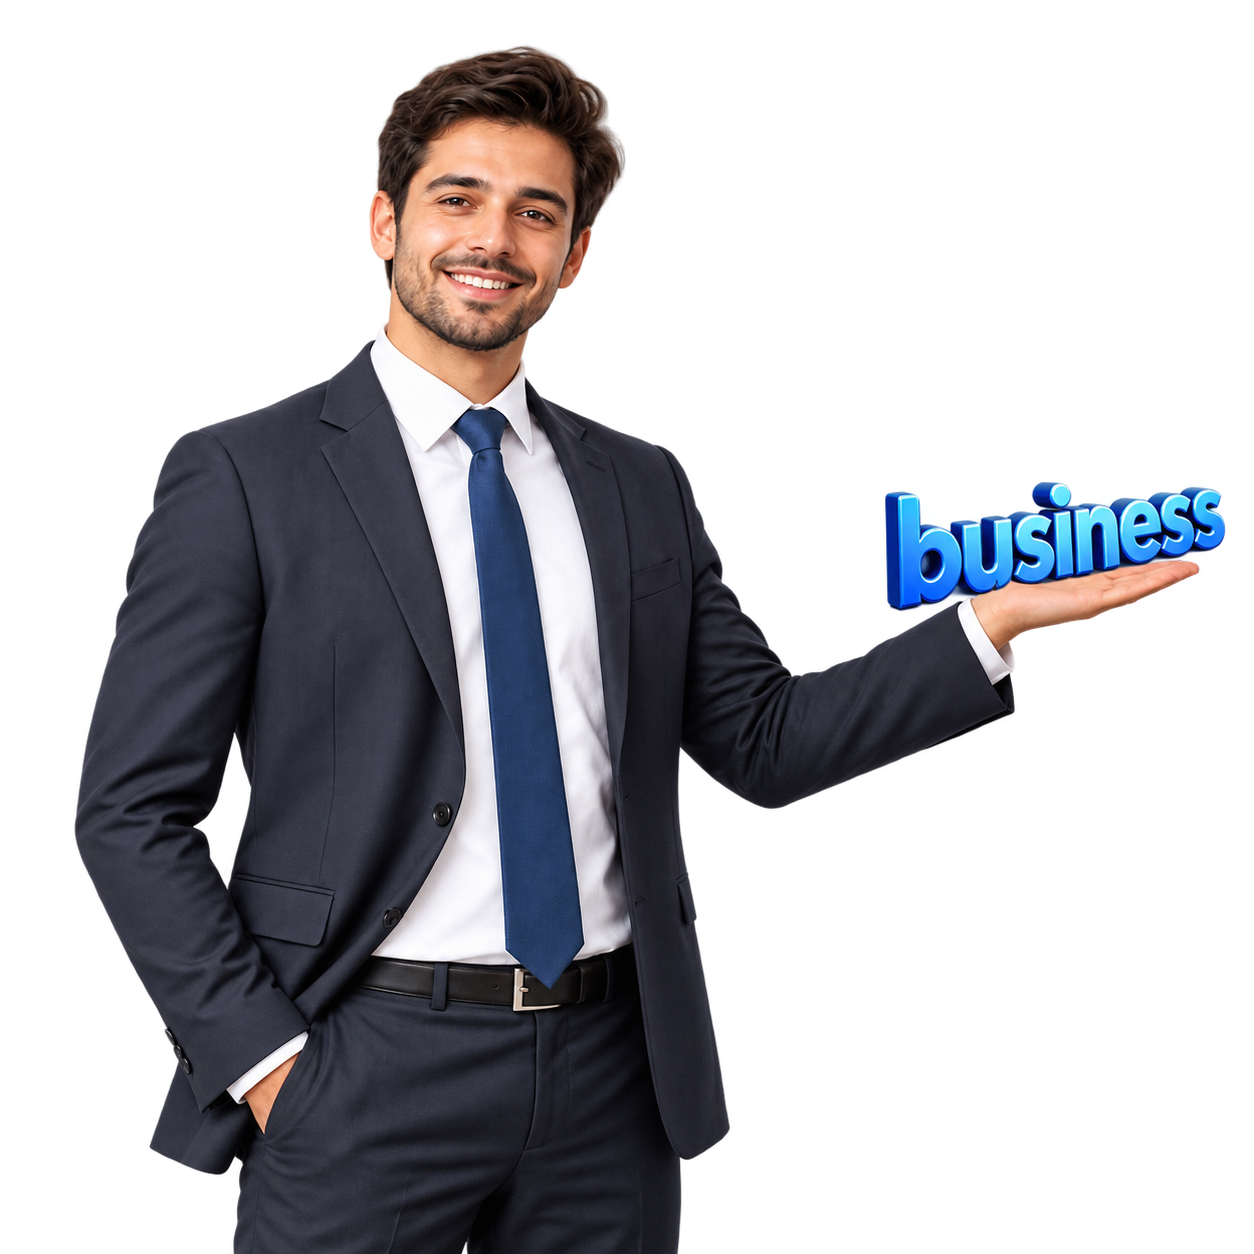
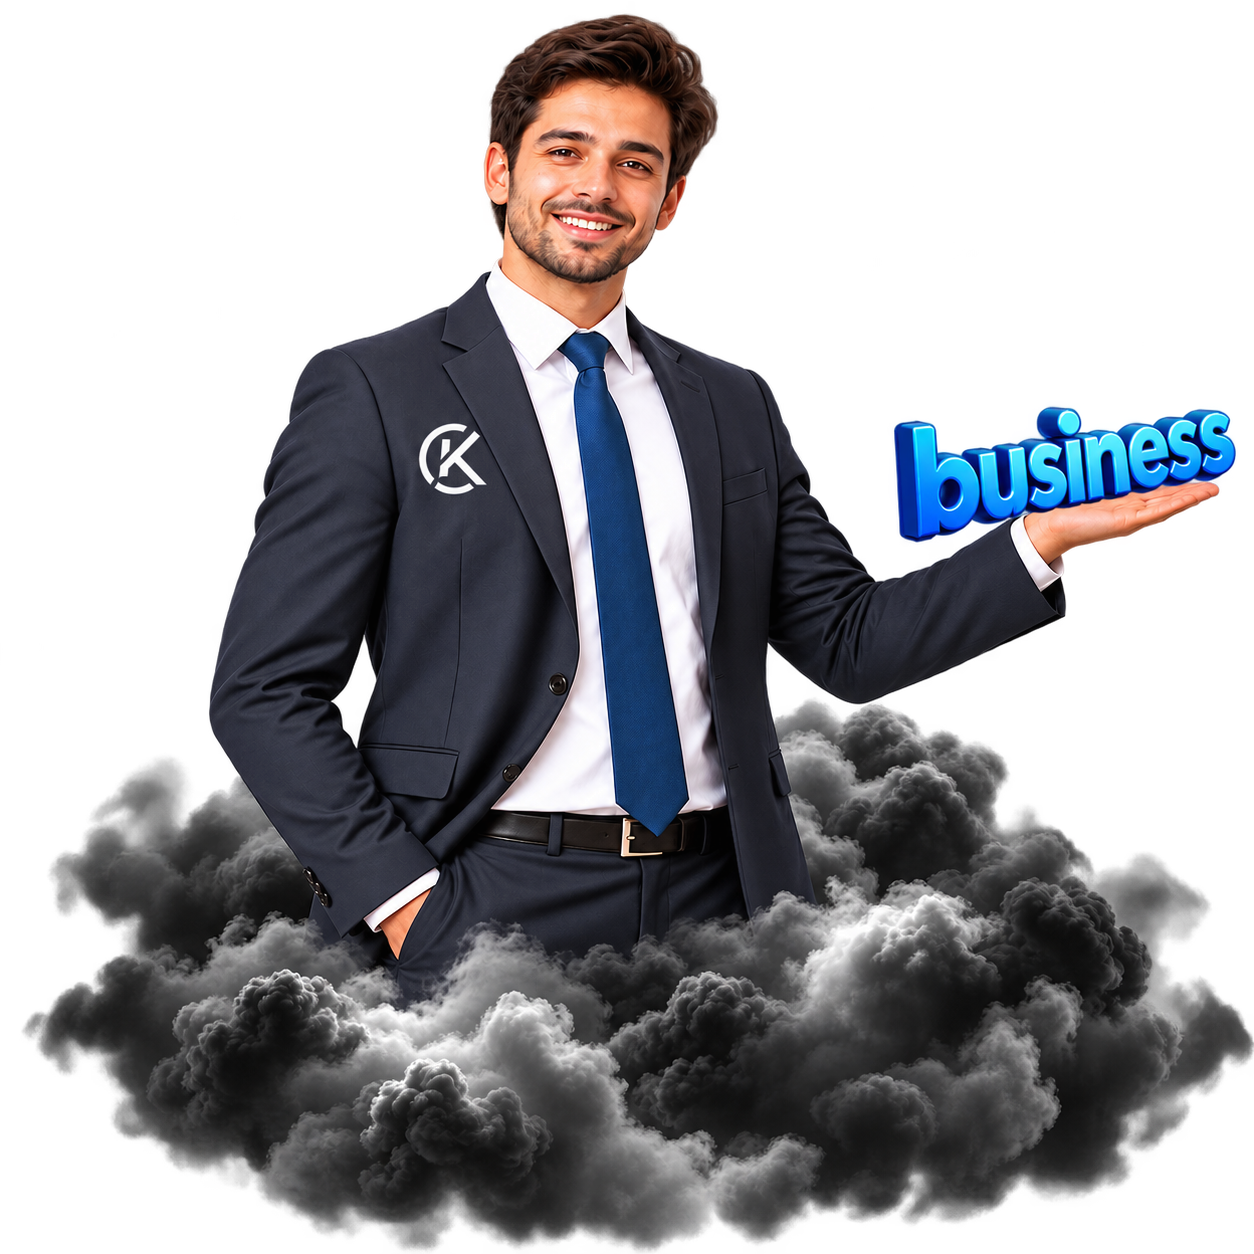
Enlarge businessman and student images 4x and position at top-right and bottom-left of Earth globe

diff --git a/frontend/src/components/sections/Hero.jsx b/frontend/src/components/sections/Hero.jsx
@@ -119,52 +119,31 @@ export default function Hero() {
               </Link>
             </div>
 
-            {/* Bottom Row: Proud to Support & Interactive Portals */}
-            <div className="hero-bottom-row">
-              {/* Proud to Support Section */}
-              <div className="hero-proud-support">
-                <span className="hero-proud-title">Proud to Support</span>
-                <div className="hero-proud-logos">
-                  <div className="hero-proud-logo-item">
-                    <img
-                      src="/logos/ministry-of-labour-and-employment-logo.webp"
-                      alt="Ministry of Labour & Employment"
-                      title="Ministry of Labour & Employment"
-                    />
-                  </div>
-                  <div className="hero-proud-logo-item">
-                    <img
-                      src="/logos/imgi_89_image.webp"
-                      alt="AICTE"
-                      title="AICTE"
-                    />
-                  </div>
-                  <div className="hero-proud-logo-item">
-                    <img
-                      src="/logos/DPIIT-header-new.webp"
-                      alt="DPIIT #startupindia"
-                      title="DPIIT #startupindia"
-                    />
-                  </div>
+            {/* Proud to Support Section */}
+            <div className="hero-proud-support">
+              <span className="hero-proud-title">Proud to Support</span>
+              <div className="hero-proud-logos">
+                <div className="hero-proud-logo-item">
+                  <img
+                    src="/logos/ministry-of-labour-and-employment-logo.webp"
+                    alt="Ministry of Labour & Employment"
+                    title="Ministry of Labour & Employment"
+                  />
                 </div>
-              </div>
-
-              {/* Businessman & Student Interactive Images */}
-              <div className="hero-interactive-portals">
-                <Link to="/digital-marketing" className="hero-portal-link" title="Digital Marketing">
+                <div className="hero-proud-logo-item">
                   <img
-                    src="/businessMan.png"
-                    alt="Digital Marketing Solutions"
-                    className="hero-portal-img"
+                    src="/logos/imgi_89_image.webp"
+                    alt="AICTE"
+                    title="AICTE"
                   />
-                </Link>
-                <Link to="/careers" className="hero-portal-link" title="Careers & Training">
+                </div>
+                <div className="hero-proud-logo-item">
                   <img
-                    src="/Cheerful Student.png"
-                    alt="Student Careers"
-                    className="hero-portal-img"
+                    src="/logos/DPIIT-header-new.webp"
+                    alt="DPIIT #startupindia"
+                    title="DPIIT #startupindia"
                   />
-                </Link>
+                </div>
               </div>
             </div>
           </div>

diff --git a/frontend/src/styles/hero.css b/frontend/src/styles/hero.css
@@ -383,26 +383,38 @@
   filter: brightness(0) invert(1) opacity(1);
 }
 
-/* INTERACTIVE PORTAL IMAGES (No borders, pure images) */
-.hero-interactive-portals {
-  display: flex;
-  align-items: flex-end;
-  gap: clamp(12px, 1.8vw, 22px);
-}
-
-.hero-portal-link {
+/* FLOATING GLOBE INTERACTIVE PORTALS (4x Enlarge Size, Top-Right & Bottom-Left of Earth) */
+.globe-floating-portal {
+  position: absolute;
+  z-index: 10;
   display: inline-block;
   text-decoration: none;
   background: transparent !important;
   border: none !important;
   outline: none !important;
+  box-shadow: none !important;
   padding: 0 !important;
   margin: 0 !important;
+  transition: transform 0.3s cubic-bezier(0.16, 1, 0.3, 1), filter 0.3s ease;
+  pointer-events: auto;
 }
 
-.hero-portal-img {
-  height: clamp(90px, 13vh, 135px);
+/* Top Right of Globe: Businessman -> /digital-marketing */
+.globe-floating-portal.portal-top-right {
+  top: -12%;
+  right: -16%;
+}
+
+/* Bottom Left of Globe: Cheerful Student -> /careers */
+.globe-floating-portal.portal-bottom-left {
+  bottom: -12%;
+  left: -18%;
+}
+
+.globe-portal-img {
+  height: clamp(260px, 32vw, 420px);
   width: auto;
+  max-width: 480px;
   object-fit: contain;
   display: block;
   border: none !important;
@@ -410,11 +422,26 @@
   box-shadow: none !important;
   background: transparent !important;
   border-radius: 0 !important;
-  transition: transform 0.25s cubic-bezier(0.16, 1, 0.3, 1);
-  cursor: pointer;
+  filter: drop-shadow(0 14px 32px rgba(0, 0, 0, 0.65));
 }
 
-.hero-portal-link:hover .hero-portal-img {
-  transform: translateY(-4px) scale(1.05);
+.globe-floating-portal:hover {
+  transform: scale(1.06) translateY(-6px);
+  z-index: 15;
 }
+
+@media (max-width: 880px) {
+  .globe-floating-portal.portal-top-right {
+    top: -15%;
+    right: -10%;
+  }
+  .globe-floating-portal.portal-bottom-left {
+    bottom: -15%;
+    left: -10%;
+  }
+  .globe-portal-img {
+    height: clamp(180px, 42vw, 280px);
+  }
+}
+
 

diff --git a/frontend/src/components/sections/GlobeVisual.jsx b/frontend/src/components/sections/GlobeVisual.jsx
@@ -1,4 +1,5 @@
 import React, { useEffect, useRef } from 'react';
+import { Link } from 'react-router-dom';
 import landPoints from '../../data/globeLandPoints.json';
 
 // Global hubs coordinates [lat, lon]
@@ -285,7 +286,7 @@ export default function GlobeVisual() {
   };
 
   return (
-    <div ref={containerRef} className="hero-globe-wrapper" aria-hidden="true">
+    <div ref={containerRef} className="hero-globe-wrapper">
       <div className="globe-ambient-glow"></div>
       <canvas
         ref={canvasRef}
@@ -295,6 +296,32 @@ export default function GlobeVisual() {
         onPointerUp={handlePointerUp}
         onPointerLeave={handlePointerUp}
       />
+
+      {/* Earth Top Right Portal: Businessman -> /digital-marketing */}
+      <Link
+        to="/digital-marketing"
+        className="globe-floating-portal portal-top-right"
+        title="Digital Marketing Solutions"
+      >
+        <img
+          src="/businessMan.png"
+          alt="Digital Marketing Solutions"
+          className="globe-portal-img"
+        />
+      </Link>
+
+      {/* Earth Bottom Left Portal: Cheerful Student -> /careers */}
+      <Link
+        to="/careers"
+        className="globe-floating-portal portal-bottom-left"
+        title="Student Careers & Training"
+      >
+        <img
+          src="/Cheerful Student.png"
+          alt="Student Careers"
+          className="globe-portal-img"
+        />
+      </Link>
     </div>
   );
 }
